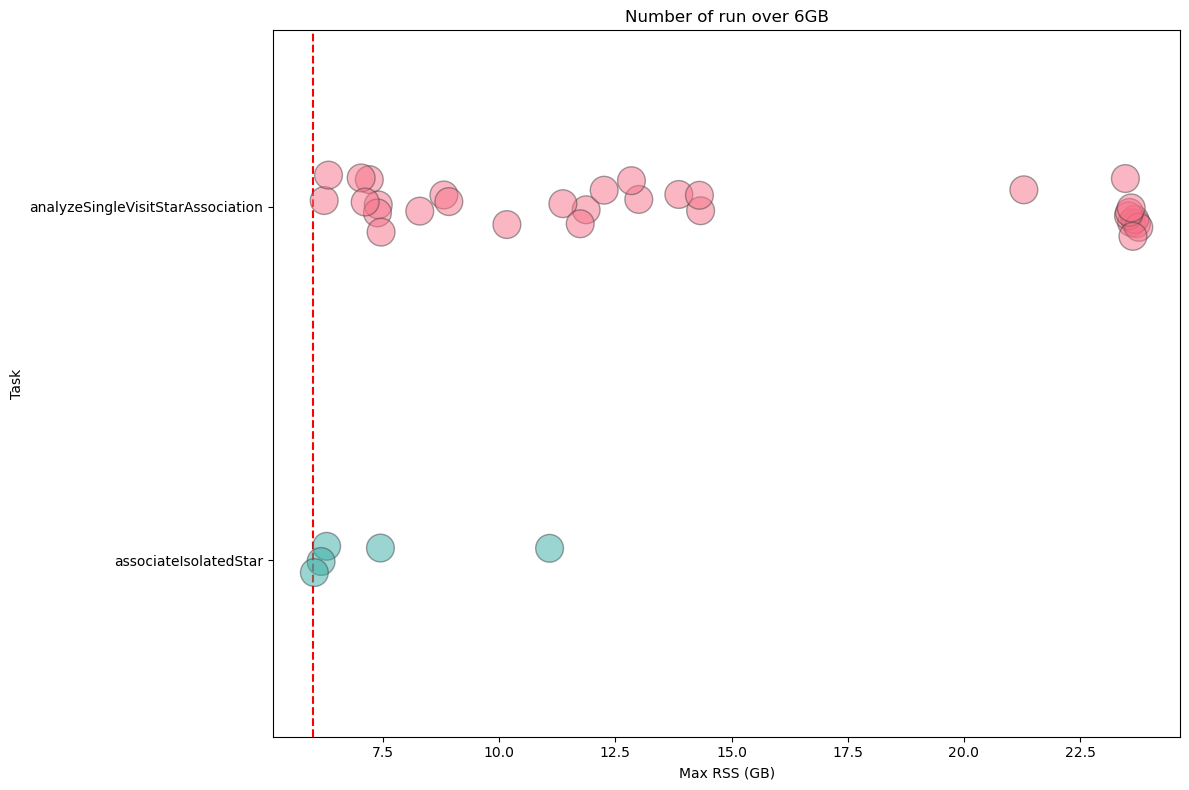
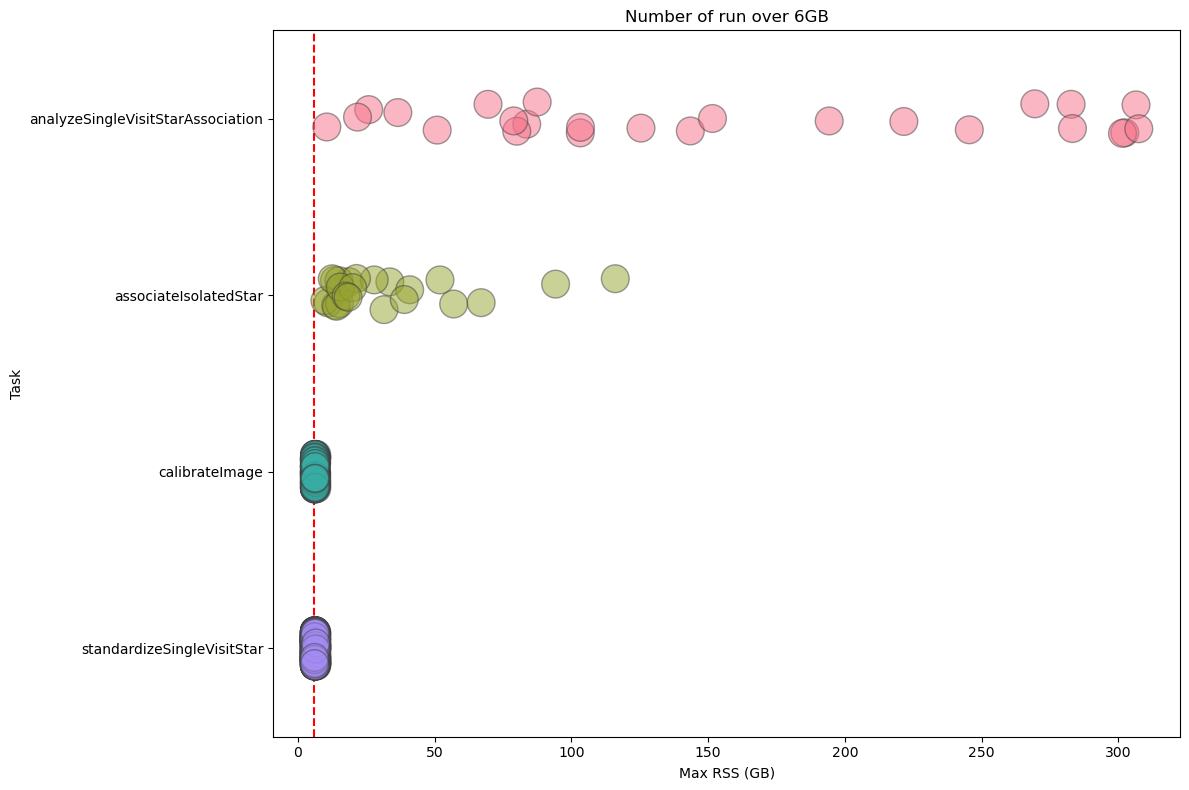
update annex with SV_225 stage 1 and 2 analysis

diff --git a/index.md b/index.md
@@ -11,7 +11,7 @@ This technical note analyzes memory-usage patterns of `pipetask` during large-sc
 
 The purpose of this technical note is to study the memory usage patterns of `pipetask` to assess future RAM requirements for worker nodes. Currently, worker nodes are provisioned with 10 GB of memory per core for machines on `lsst` partition and 4GB of memory per core for machine on standard partition. Analyzing metrics from recent large-scale tests at CC-IN2P3 can provide valuable insight into whether reducing the memory per core to 6 GB would be both feasible and cost-effective.
 
-We analyzed memory-usage metrics collected by the Butler for four large-scale test campaigns at the French Data Facility (FrDF - CC-IN2P3):
+We analyzed memory-usage metrics collected by the Butler for five large-scale test campaigns at the French Data Facility (FrDF - CC-IN2P3):
 
 ```{rst-class} technote-wide-content
 ```
@@ -21,14 +21,16 @@ We analyzed memory-usage metrics collected by the Butler for four large-scale te
 | DM‑53719 | `v30.0.0.rc2`   | 1 061  | COSMOS, EDFS |
 | DM‑53877 | `v30.0.0.rc3`| 1 067  | COSMOS, EDFS |
 | DM‑54249 | `v30.0.4`      | 1 067  | COSMOS, EDFS |
-
-*DM‑53368* is a large‑scale test that suffered hardware failures, resulting in incomplete Stage 4 metrics. *DM‑53719* and *DM‑53877* are pilot runs for the upcoming DP2 production at USDF.
-*DM‑53877* encountered an issue with a pipetask and was terminated at step 4a.  
-
-All the campaigns described in the table above have been executed at CC-IN2P3. For this analysis, we will focus on the last campaign executed with `v30.0.4`, but we will provide a comparison of each campaign in the annexe.
+| DM‑54372 | `v30.0.4`      | 2038  | SV225 |
 
 The fields have been selected according to the campaign Management (CM) team's recommendations to cover regions that could pose challenges for data processing, or at least present more significant issues compared to a wide field.
 Details on the fields are available in offfcial LSST documentation ({cite}`RTN-011`,{cite}`RTN-111`).  
+
+*DM‑53368* is a large‑scale test that suffered hardware failures, resulting in incomplete Stage 4 metrics. *DM‑53719* and *DM‑53877* are pilot runs for the upcoming DP2 production at USDF.
+*DM‑53877* encountered an issue with a pipetask and was terminated at step 4a.  
+*DM‑54372* is a dense field and will be analyzed in the annex to compare its memory requirements with those of standard fields.
+
+All the campaigns described in the table above have been executed at CC-IN2P3. For this analysis, we will focus on the last campaign executed with `v30.0.4`, but we will provide a comparison of each campaign in the annex.
 
 The campaigns have been submitted from the CC-IN2P3 using BPS and Panda, with data from the `dp2_prep` butler as input. The input collection was created using the provided CM scripts and selecting the appropriate visits and exposures via ConsDB. 
 
@@ -478,7 +480,7 @@ Also for Stage 4, the cumulative plots confirm that reducing the memory alloca
 **Cumulative fraction of Stage 4 quanta per Max RSS.** The green dashed line represents the 95% of total quanta, dashed orange and red lines indicate the 4 GB and 6 GB memory thresholds.
 ```
 
-The following table presents the number of quanta exceeding the GB threshold for each campaign, indicating that:
+The following table presents the number of quanta exceeding the GB threshold for DM‑54249 campaign, indicating that:
 
 * Stage 1: 6 GB per core is sufficient for 99.994 % of the quanta in terms of the number of jobs, and for 99.97 % of the quanta in terms of wall-time.
 * Stage 2: 6 GB per core is sufficient for 99.67 % of the quanta in terms of the number of jobs, and for 75 % of the quanta in terms of wall-time.
@@ -494,9 +496,106 @@ The following table presents the number of quanta exceeding the GB threshold for
 | Stage 3 |887,683   |637              |0.072           |25973.91           |123.53              |0.476              |
 | Stage 4 |2,593,783 |1,104            |0.043           |52124.19           |2,184.912           |4.192              |
 
-## Appendinx 
+## Annex
 
-### Comparison across stacks for Stage 1 pipetasks
+### Memory requirement for the dense field SV225
+
+
+The analysis of the metrics for the dense field clearly shows a memory demand that exceeds the requirements observed in the previously examined “standard” fields. This excess is visible at every stage of the pipeline, and the extra memory usage made it necessary to adjust the pipeline’s memory configuration in order to process the field in its entirety. In the following sections we will examine, stage by stage, the most problematic tasks
+
+#### Stage 1 pipetasks 
+
+In DM‑54372 Stage 1, **1,095,651** quanta were executed, and **1,880** of them exceeded the 6 GB threshold (0.18 %). In terms of wall‑time, the quanta that exceeded the 6 GB limit account for roughly **67 h** out of a total of **23,143 h** (0.3 %).
+If this figure looks acceptable, we should still note that the memory requirements are not negligible because two tasks, **`analyzeSingleVisitStarAssociation`** and **`associateIsolatedStar`**, consume far more memory than they did in the previous campaign as shown in the next table comparing main statistics for these two tasks. 
+
+
+```{rst-class} technote-wide-content
+``` 
+|                                                    |   max_rss_mean |   max_rss_median |   max_rss_min |   max_rss_max |   max_rss_95th_percentile | STACK         |
+|:---------------------------------------------------|---------------:|-----------------:|--------------:|--------------:|--------------------------:|:--------------|
+| analyzeSingleVisitStarAssociation                  |     118.055    |        83.6495   |      0.761913 |    307.428    |                303.947    | v30_0_4_SV225 |
+| analyzeSingleVisitStarAssociation                  |       7.602    |         4.24253  |      0.562172 |     23.7612   |                 23.6281   | v30_0_4       |
+| associateIsolatedStar                              |      24.3708   |        15.4813   |      0.966152 |    116.038    |                 77.878    | v30_0_4_SV225 |
+| associateIsolatedStar                              |       2.93676  |         2.98122  |      0.609653 |     11.0854   |                  6.13378  | v30_0_4       |
+
+
+```{figure} ./images/deep_MaxRSSTask_v30_stage1.png
+:figclass: technote-wide-content
+
+**Maximum RSS of Stage 1 pipeline tasks for dense and non‑dense fields** 
+Dashed orange and red lines indicate the 4 GB and 6 GB memory thresholds. The increase in memory usage is evident for the `analyzeSingleVisitStarAssociation` and `associateIsolatedStar` pipeline tasks.
+```
+Also looking at the integrated wall-time, as shown in the next figure, there are jobs using more than 250 GB of memeory for hours. 
+
+```{figure} ./images/deep_MaxRSS_stripplot_per_task_v30_upper6_stage1_walltime.png
+:figclass: technote-wide-content
+
+**DM-54372 Stage 1 Pipetask Runs Exceeding the 6 GB Memory Threshold – Frequency and Wall‑time Impact**
+The plot displays the number of runs (quanta) per Stage 1 pipetask that exceed the 6 GB memory threshold (dashed red line). Each circle marks the frequency (i.e., the number of quanta) at which a given task reaches a specific memory level. The size of the circle is proportional to the wall-time of the quanta, showing that the impact on the cores mobilised to handle the memory excess is important in particular for **`analyzeSingleVisitStarAssociation`** and **`associateIsolatedStar`**  pipetasks.
+```
+
+#### Stage 2 pipetasks  
+
+In the case of Stage 2, the situation is more complex: the number of tasks that on average exceed the 6 GB threshold is high both in terms of quanta (**288,912** out of a total of 1,071,583, **≈ 27 %**) and in terms of cumulative wall‑time (**50,123 h** out of a total of **60,984 h**, **≈ 82 %**).
+
+
+As shown in the following graph, many pipeline tasks executed in Stage 2 use, on average, more than 6 GB of memory.
+
+```{figure} ./images/deep_MaxRSS_box_all_stacks_stage2.png
+:figclass: technote-wide-content
+
+**Box plot showing maximum RSS for Stage 2 pipetasks in v30.0.4 release during DM-54372 SV_225 processing.**
+Orange and red dashed lines indicate the 4 GB and 6 GB memory thresholds. The x‑axis is logarithmic to improve the visualization. 
+Many tasks require > 6GB RSS.
+```
+
+Some of these pipeline tasks already exceeded the 6 GB threshold in the standard fields, but the overrun is now much larger, with peaks reaching 85 GB (`gbdesHealpix3AstrometricFit`) and 249 GB (`analyzeRecalibratedStarAssociation`) as shown in the next graph. 
+
+```{figure} ./images/deep_MaxRSSTask_v30_stage2.png
+:figclass: technote-wide-content
+
+**Maximum RSS of Stage 1 pipeline tasks for dense and non‑dense fields** 
+Dashed orange and red lines indicate the 4 GB and 6 GB memory thresholds. The increase in memory usage is evident for the `analyzeSingleVisitStarAssociation` and `associateIsolatedStar` pipeline tasks.
+```
+
+
+The table below shows a comparison of the statistics for the problematic tasks across the two campaigns.
+
+```{rst-class} technote-wide-content
+``` 
+
+|                                                     |   max_rss_mean |   max_rss_median |   max_rss_min |   max_rss_max |   max_rss_95th_percentile | STACK         |
+|:----------------------------------------------------|---------------:|-----------------:|--------------:|--------------:|--------------------------:|:--------------|
+| analyzeRecalibratedStarAssociation                  |      96.702    |        68.4145   |      0.490456 |    252.611    |                249.238    | v30_0_4_SV225 |
+| analyzeRecalibratedStarAssociation                  |       6.52842  |         3.60212  |      0.486923 |     19.7006   |                 19.4489   | v30_0_4       |
+| fgcmBuildFromIsolatedStar                           |      21.4124   |        21.4124   |     21.4124   |     21.4124   |                 21.4124   | v30_0_4_SV225 |
+| fgcmBuildFromIsolatedStar                           |      11.2081   |        11.2081   |     11.2081   |     11.2081   |                 11.2081   | v30_0_4       |
+| fgcmFitCycle                                        |      39.3765   |        39.3765   |     39.3765   |     39.3765   |                 39.3765   | v30_0_4_SV225 |
+| fgcmFitCycle                                        |      34.4069   |        34.4069   |     34.4069   |     34.4069   |                 34.4069   | v30_0_4       |
+| fgcmOutputProducts                                  |       8.33749  |         8.33749  |      8.33749  |      8.33749  |                  8.33749  | v30_0_4_SV225 |
+| fgcmOutputProducts                                  |       8.3409   |         8.3409   |      8.3409   |      8.3409   |                  8.3409   | v30_0_4       |
+| fitStellarMotion                                    |       2.46621  |         1.13275  |      0.500439 |     11.2468   |                  8.43619  | v30_0_4_SV225 |
+| fitStellarMotion                                    |       0.713758 |         0.656345 |      0.502529 |      1.43505  |                  1.09982  | v30_0_4       |
+| gaussianProcessesTurbulenceFit                      |      17.5902   |        18.1526   |      6.38021  |     26.4142   |                 26.2845   | v30_0_4_SV225 |
+| gaussianProcessesTurbulenceFit                      |       6.12501  |         6.2077   |      1.07148  |      6.54644  |                  6.51897  | v30_0_4       |
+| gbdesHealpix3AstrometricFit                         |      46.5806   |        42.5762   |      8.96418  |     87.3772   |                 85.7613   | v30_0_4_SV225 |
+| gbdesHealpix3AstrometricFit                         |       4.73779  |         3.74013  |      0.684643 |     12.0505   |                 11.3513   | v30_0_4       |
+| refitPsfModelDetector                               |       6.70917  |         6.79523  |      1.25986  |     10.8903   |                  8.33599  | v30_0_4_SV225 |
+| refitPsfModelDetector                               |       3.41789  |         3.56515  |      0.96085  |      4.92125  |                  4.36204  | v30_0_4       |
+
+
+As shown in the figure below—and as observed in the standard fields—the `gaussianProcessesTurbulenceFit` pipeline task consistently uses around 6 GB of memory for extended periods. In addition, the `gbdesHealpix3AstrometricFit` task now consumes up to **85 GB** for about **40 h**, and the `analyzeRecalibratedStarAssociation` task reaches **250 GB** for many hours.
+
+```{figure} ./images/deep_MaxRSS_stripplot_per_task_v30_upper6_stage2_walltime.png
+:figclass: technote-wide-content
+
+**DM-54372 Stage 2 Pipetask Runs Exceeding the 6 GB Memory Threshold – Frequency and Wall‑time Impact**
+The plot displays the number of runs (quanta) per Stage 2 pipetask that exceed the 6 GB memory threshold (dashed red line). Each circle marks the frequency (i.e., the number of quanta) at which a given task reaches a specific memory level. The size of each circle is proportional to the quanta’s wall‑time, illustrating that the impact on the cores required to handle the memory excess is now substantial for many tasks.
+```
+
+### Comparison across stacks 
+
+#### Stage 1 pipetasks
 
 ```{figure} ./images/MaxRSSTask_all_stacks_stage1.png
 :figclass: technote-wide-content
@@ -506,7 +605,7 @@ The box plot compares the maximum RSS of the Stage 1 pipetask across four softwa
 The orange and red dashed lines represent the 4GB and 6GB memory thresholds, respectively. The chart clearly demonstrates a significant improvement in memory usage from the older “weekly” stack to the v30 version. 
 ```
 
-### Comparison across stacks for Stage 2 pipetasks
+####  Stage 2 pipetasks
 
 ```{figure} ./images/MaxRSSTask_all_stacks_stage2.png
 :figclass: technote-wide-content
@@ -516,7 +615,7 @@ The box plot compares the maximum RSS of the Stage 2 pipetask across four softwa
 The orange and red dashed lines represent the 4GB and 6GB memory thresholds, respectively. The chart clearly demonstrates a significant improvement in memory usage from the older “weekly” stack to the v30 version. 
 ```
 
-### Comparison across stacks for Stage 3 pipetasks
+#### Stage 3 pipetasks
 
 ```{figure} ./images/MaxRSSTask_all_stacks_stage3.png
 :figclass: technote-wide-content
@@ -526,7 +625,7 @@ The box plot compares the maximum RSS of the Stage 3 pipetask across four softwa
 The orange and red dashed lines represent the 4GB and 6GB memory thresholds, respectively. The chart clearly demonstrates a significant improvement in memory usage from the older “weekly” stack to the v30 version. 
 ```
 
-### Comparison across stacks for Stage 4 pipetasks
+#### Stage 4 pipetasks
 
 ```{figure} ./images/MaxRSSTask_all_stacks_stage4.png
 :figclass: technote-wide-content
